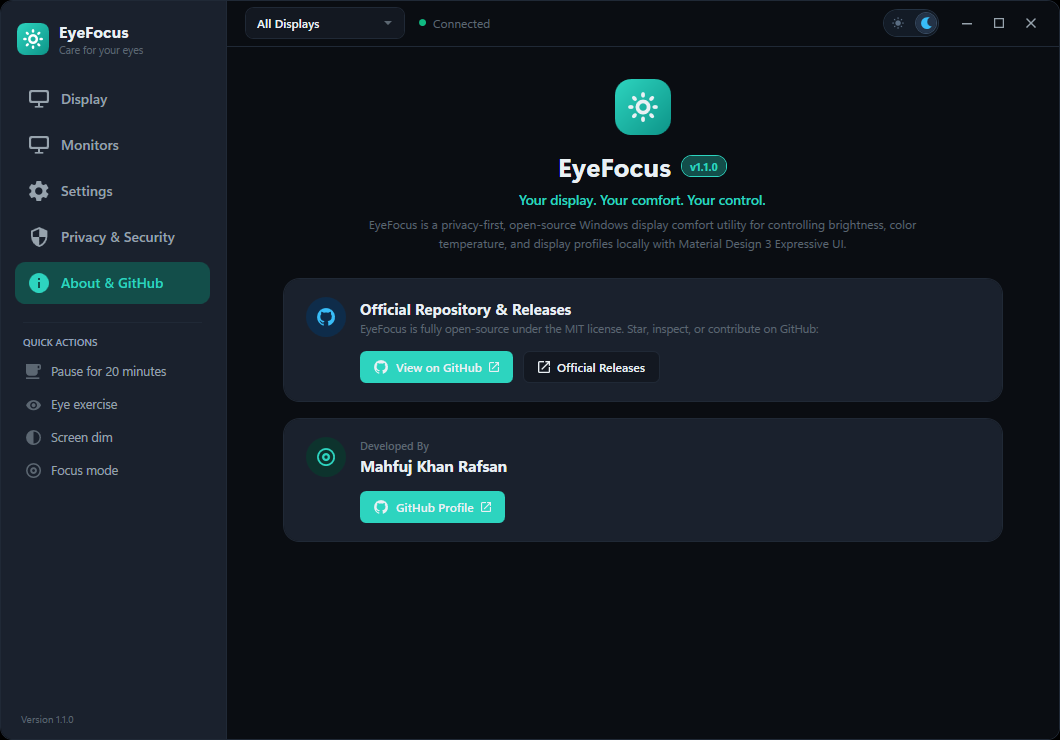
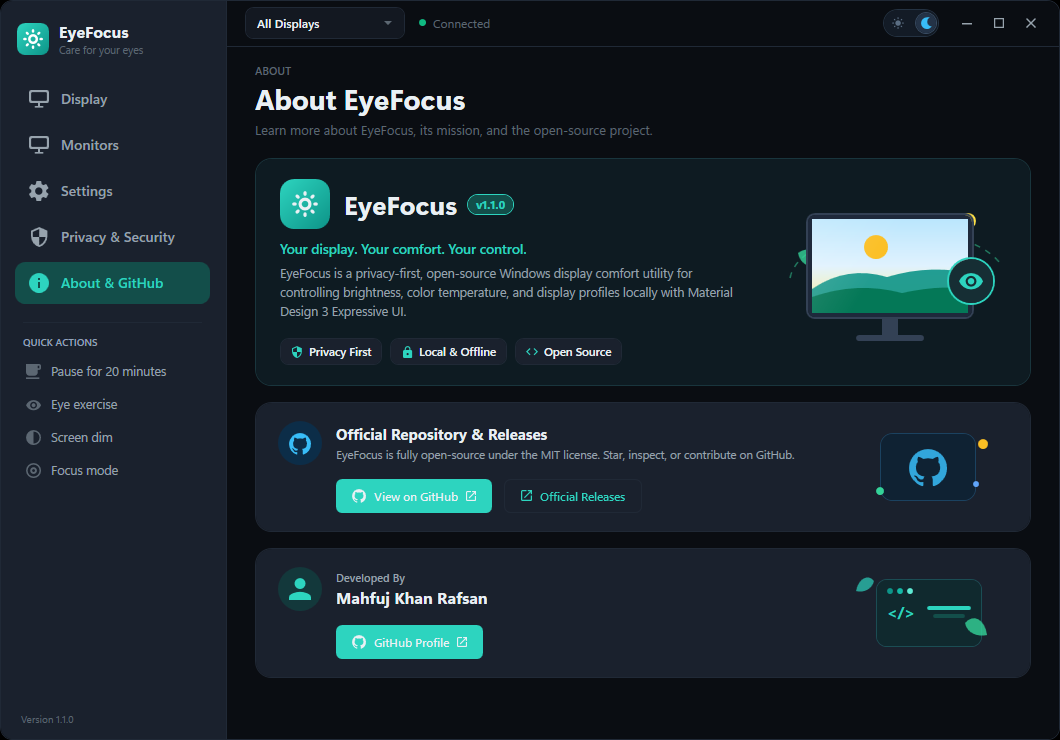
docs: update screenshots and README with redesigned monitors and about views

Changed region(s): [[0.2179, 0.1865, 0.9962, 0.9324], [0.2179, 0.0932, 0.6538, 0.1865]]

diff --git a/README.md b/README.md
@@ -47,9 +47,12 @@ Designed with clean **Material Design 3 Expressive & Fluent UI** aesthetics, Eye
   - **Reading** (4000K / 55%): Gentle warm paper-like tone for long reading sessions.
   - **Coding** (4500K / 60%): High contrast with eye strain reduction for IDEs.
   - **Night** (3000K / 40%): Melatonin-preserving deep warm glow for late-night sessions.
-- 🖥 **Multi-Monitor Discovery & Independent Control**:
-  - Automatically identifies all connected displays and GPU adapters with real-time capability probing.
+- 🖥 **Multi-Monitor Discovery & Advanced Hardware Controls**:
+  - Automatically identifies all connected displays and GPU adapters with real-time hardware capability probing.
   - Supports individual per-monitor adjustments and simultaneous multi-display synchronization.
+  - Quick display actions on every monitor card: **Open Windows Display Settings**, **Identify Display** (on-screen floating badge), **Re-detect Hardware Capabilities**, and **Copy Display Specifications** to clipboard.
+- ℹ **Brand Hero & About View**:
+  - Expressive Material 3 hero card, official version badges, open-source project links, license, and developer credits.
 - 🔒 **100% Offline & Zero-Telemetry Privacy Guarantee**:
   - Zero internet access required. No analytics, tracking, or network sockets.
   - Local atomic JSON storage strictly within Windows AppData.
@@ -118,8 +121,9 @@ Designed with clean **Material Design 3 Expressive & Fluent UI** aesthetics, Eye
 ### Method 2: Standalone Portable ZIP (No Install Required)
 
 1. Download **`EyeFocus-v1.1.0-Windows-Portable.zip`** from the [**GitHub Releases Page**](https://github.com/mahfujkn/EyeFocus/releases).
-2. Extract the ZIP archive anywhere on your PC (e.g., `C:\EyeFocus` or Desktop).
-3. Double-click **`EyeFocus.exe`** to start using EyeFocus immediately without any installation.
+2. Extract the ZIP archive anywhere on your PC (e.g., `Downloads`, `Desktop`, or `C:\`).
+   - *The ZIP automatically unpacks into a dedicated `EyeFocus/` folder containing the executable and all components.*
+3. Open the `EyeFocus` folder and double-click **`EyeFocus.exe`** to start using EyeFocus immediately without any installation.
 
 ---
 
@@ -161,7 +165,7 @@ Designed with clean **Material Design 3 Expressive & Fluent UI** aesthetics, Eye
 | **Display Communication** | Windows DDC/CI (VCP Codes `0x10`, `0x12`), Win32 GDI `SetDeviceGammaRamp`, Direct3D Layer |
 | **Multi-Monitor Management** | Windows SetupAPI, Win32 `EnumDisplayMonitors`, WMI `WmiMonitorBrightness` |
 | **Design System** | Google Material Design 3 Expressive & Windows 11 Fluent UI Glassmorphism |
-| **Quality & Tests** | xUnit Test Suite with Full Headless Service Mocking (43/43 Passing Tests) |
+| **Quality & Tests** | xUnit Test Suite with Full Headless Service Mocking (61/61 Passing Tests) |
 
 ---
 
